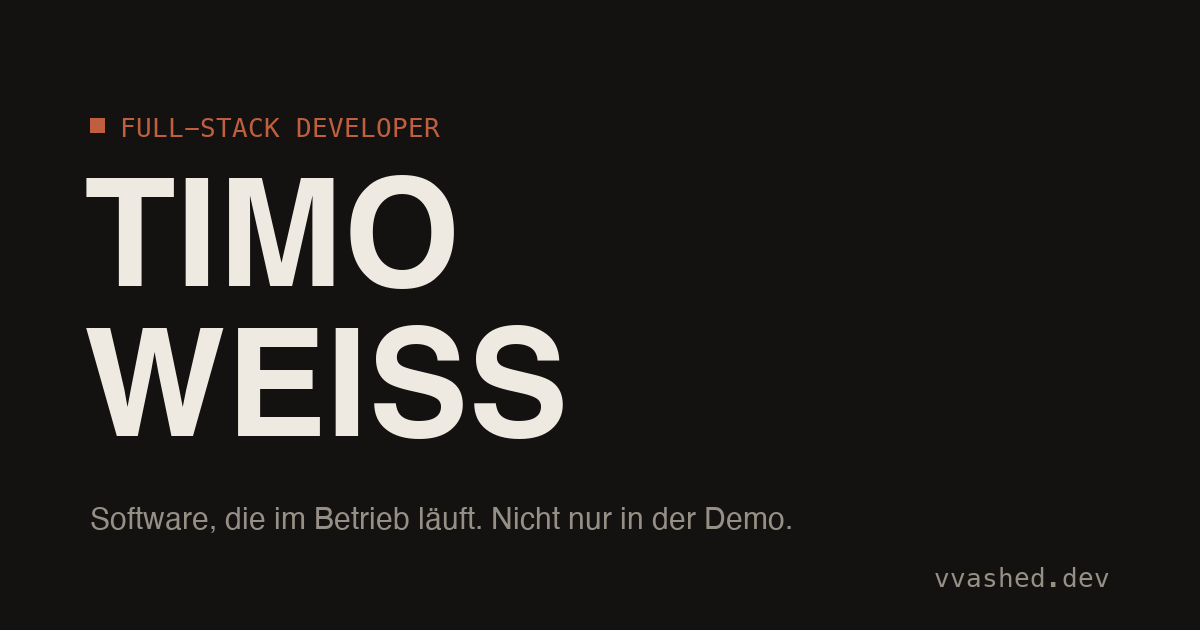
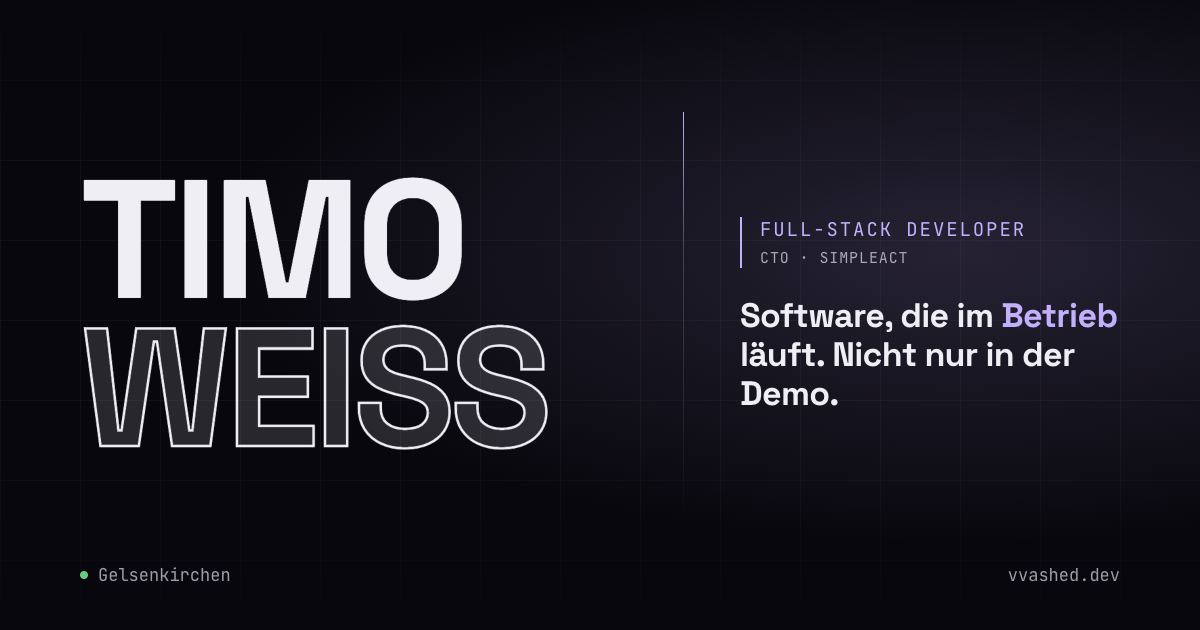
Link-Vorschaubild im v3-Look
og.png neu aus scripts/og.html (headless Chrome, 1200×630): Lavendel-Akzent,
Outline-Name wie im Hero. theme-color an den neuen Hintergrund angepasst.

diff --git a/scripts/og.html b/scripts/og.html
@@ -1,0 +1,57 @@
+<!doctype html>
+<!-- Quelle für public/og.png (1200×630). Neu erzeugen mit:
+     "/Applications/Google Chrome.app/Contents/MacOS/Google Chrome" --headless=new \
+       --hide-scrollbars --window-size=1200,630 --screenshot=public/og.png scripts/og.html -->
+<html lang="de">
+<head>
+<meta charset="utf-8" />
+<style>
+@font-face { font-family: SG; src: url(../public/assets/space-grotesk-latin-wght-normal-BhU9QXUp.woff2) format("woff2"); font-weight: 300 700; }
+@font-face { font-family: SG; src: url(../public/assets/space-grotesk-latin-ext-wght-normal-D9tNdqV9.woff2) format("woff2"); font-weight: 300 700; unicode-range: U+0100-024F, U+1E00-1EFF; }
+@font-face { font-family: JBM; src: url(../public/assets/jetbrains-mono-latin-wght-normal-B9CIFXIH.woff2) format("woff2"); font-weight: 100 800; }
+* { box-sizing: border-box; margin: 0; }
+html, body { width: 1200px; height: 630px; overflow: hidden; }
+body {
+  position: relative;
+  background: oklch(13.5% 0.012 290);
+  color: oklch(95% 0.008 290);
+  font-family: SG, sans-serif;
+  -webkit-font-smoothing: antialiased;
+}
+.glow { position: absolute; inset: 0; background: radial-gradient(ellipse at 80% 40%, oklch(80% 0.11 295 / 0.16), transparent 55%); }
+.grid {
+  position: absolute; inset: 0;
+  background-image: linear-gradient(oklch(70% 0.02 290 / 0.06) 1px, transparent 1px), linear-gradient(90deg, oklch(70% 0.02 290 / 0.06) 1px, transparent 1px);
+  background-size: 80px 80px;
+  -webkit-mask-image: linear-gradient(to bottom, transparent, black 30%, black 70%, transparent);
+}
+.wrap { position: absolute; inset: 0; padding: 72px 80px; display: grid; grid-template-columns: 1fr 1px 380px; gap: 0 56px; align-items: center; }
+h1 { font-size: 168px; font-weight: 700; text-transform: uppercase; letter-spacing: -0.03em; line-height: 0.88; }
+h1 span { display: block; }
+h1 .out { color: color-mix(in oklab, oklch(95% 0.008 290) 14%, transparent); -webkit-text-stroke: 2.5px oklch(95% 0.008 290); }
+.rule { align-self: stretch; margin: 40px 0; background: linear-gradient(to bottom, oklch(80% 0.11 295), oklch(38% 0.012 290) 35%, transparent); }
+.side { display: grid; gap: 28px; }
+.role { border-left: 2px solid oklch(80% 0.11 295); padding-left: 18px; font-family: JBM, monospace; text-transform: uppercase; display: grid; gap: 6px; }
+.role b { font-weight: 400; font-size: 19px; letter-spacing: 0.1em; color: oklch(80% 0.11 295); }
+.role i { font-style: normal; font-size: 15px; letter-spacing: 0.06em; color: oklch(74% 0.012 290); }
+.claim { font-size: 34px; font-weight: 700; line-height: 1.15; letter-spacing: -0.02em; }
+.claim em { font-style: normal; color: oklch(80% 0.11 295); }
+.foot { position: absolute; left: 80px; right: 80px; bottom: 44px; display: flex; justify-content: space-between; align-items: center; font-family: JBM, monospace; font-size: 17px; color: oklch(70% 0.012 290); }
+.foot span:first-child { display: flex; align-items: center; gap: 10px; }
+.dot { width: 8px; height: 8px; border-radius: 50%; background: oklch(76% 0.14 150); }
+</style>
+</head>
+<body>
+<div class="glow"></div>
+<div class="grid"></div>
+<div class="wrap">
+  <h1><span>Timo</span><span class="out">Weiß</span></h1>
+  <div class="rule"></div>
+  <div class="side">
+    <div class="role"><b>Full-Stack Developer</b><i>CTO · SimpleAct</i></div>
+    <p class="claim">Software, die im <em>Betrieb</em> läuft. Nicht nur in der Demo.</p>
+  </div>
+</div>
+<div class="foot"><span><span class="dot"></span>Gelsenkirchen</span><span>vvashed.dev</span></div>
+</body>
+</html>

diff --git a/index.html b/index.html
@@ -9,7 +9,7 @@
       content="Portfolio von Timo Weiß (vvashed), Full-Stack Developer und CTO von SimpleAct: Next.js/TypeScript-Web-Plattformen, .NET/EF-Core-Backends und selbst betriebene Infrastruktur."
     />
     <meta name="author" content="Timo Weiß" />
-    <meta name="theme-color" content="#0b0c10" />
+    <meta name="theme-color" content="#0e0c14" />
     <link rel="icon" type="image/png" href="/favicon.png" />
     <link rel="apple-touch-icon" href="/apple-touch-icon.png" />
     <link rel="canonical" href="https://vvashed.dev/" />
